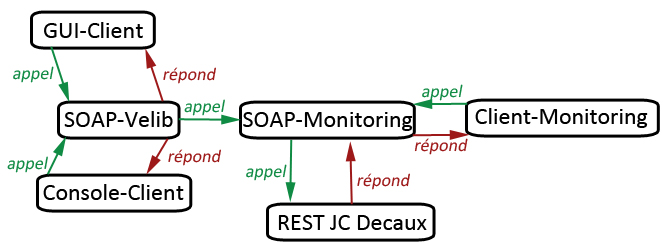
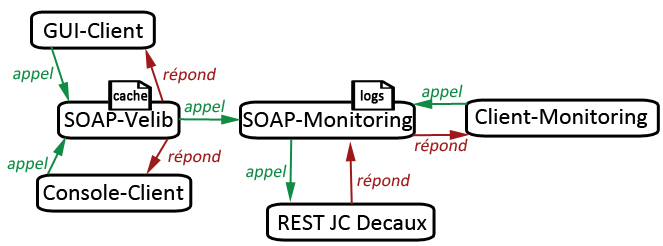
maj README

Changed region(s): [[0.1508, 0.313, 0.2413, 0.4553], [0.5128, 0.313, 0.6033, 0.4553]]

diff --git a/README.md b/README.md
@@ -11,14 +11,14 @@
 
 ## Ordre de lancement
 Pour que tous les projets fonctionnent correctement il est nécessaire de les lancer dans un certain ordre :  
- 1. Client-Console_Monitoring
+ 1. Wcf_Monitoring
  2. Wcf_SOAP-Velib
- 3. _Le projet/fonctionnalité que vous souhaiter tester_   
+ 3. _Le projet/fonctionnalité que vous souhaitez tester_   
 
 Voir "Architecture du projet".
 
 ## Architecture du projet
-Le dépôt courant est composé de 5 projets (de manière à bien décomposer en cas de client/serveur) :  
+Le dépôt courant est composé de 5 projets (de manière à bien découper en cas de client/serveur) :  
  1. **Client_Console-Velib :** Projet client console qui communique via un protocol SOAP avec le service fournit par le projet `Wcf_SOAP-Velib`. Une fois le projet `Wcf_SOAP-Velib` lancé, puis ce projet lancé, tapez `help` pour voir les commandes disponibles. Vous pourrez intéragir via la console Windows.    
  → Ce projet utilise les méthodes synchrones (séquentielles classiques) fournies par le service SOAP.  
  _L'API publique est documentée._
@@ -27,19 +27,20 @@ Le dépôt courant est composé de 5 projets (de manière à bien décomposer en
  → Ce projet utilise les méthodes asynchrones fournit par le service SOAP.   
  _L'API publique est documentée._  
 
- 3. **Wcf_SOAP-Velib** : Projet WCF (bibliothèque) qui fournit un service SOAP communiquant avec l'API de JC Decaux qui suit l'architecture REST.  
+ 3. **Wcf_SOAP-Velib** : Projet WCF (bibliothèque) qui fournit un service SOAP communiquant avec l'API de JC Decaux qui suit l'architecture REST. Depuis l'ajout du module de monitoring il faut lancer `Wcf_Monitoring` avant ce projet.  
  _L'API publique est documentée._  
 
- 4. **Monitoring** : Le dossier `monitoring` est composé de deux projets. Le premier `Wcf_Monitoring` va créer un service WCF (comme pour le service SOAP-Velib) qui va gérer les logs. Il va être appelé par `Wcf_SOAP-Velib` à chaque fois que celui-ci est appelé, la persistence est gérée de la même manière que pour le cache (voir section suivante). Ce service est également référencé par le projet `Client-Console_Monitoring` qui a un comportement analogue à `Client_Console-Velib`, et permet via un terminal de consulter divers données comme le nombre de requêtes pour une période donnée ou le délais moyen d'une méthode communiquant avec l'API REST JC Decaux. On l'architecture suivante :    
+ 4. **Monitoring** : Le dossier `monitoring` est composé de deux projets. Le premier `Wcf_Monitoring` va créer un service WCF (comme pour le service SOAP-Velib) qui va gérer les logs. Il va être appelé par `Wcf_SOAP-Velib` à chaque fois que celui-ci est appelé, la persistence est gérée de la même manière que pour le cache (voir section suivante). Ce service est également référencé par le projet `Client-Console_Monitoring` qui a un comportement analogue à `Client_Console-Velib`, et permet via un terminal de consulter divers données comme le nombre de requêtes pour une période donnée ou le délais moyen d'une méthode communiquant avec l'API REST JC Decaux. On a l'architecture suivante :    
  ![appels](doc/appels.jpg)
+  _L'API publique est documentée._
 
 ### **Cache**
 Le système de "cache" est ajouté dans le projet `Wcf_SOAP-Velib`.   
 La classe `Cache` est responsable de son fonctionnement. Un objet de cette classe va stocker la liste des villes de l'API et pour chacune la liste de ses stations ; chaque information (ville ou liste de stations) est associée à une date qui correspond au moment où l'information a été obtenue.    
-L'instance de la classe `Cache` dispose d'une durée (de base de 5min qui est configurable), si une nouvelle requête est effectuée dans un délai inférieur à la durée alors on va aller se servir des données stockées, sinon on va supprimer ces données et faire une requête (qui iront à leur tour dans le cache). Pour gérer la persistence on écrit/lit le cache (dans le dossier `Debug`) dans un fichier binaire.   
+L'instance de la classe `Cache` dispose d'une durée (de base de 5min, cette durée est configurable), si une nouvelle requête est effectuée dans un délai inférieur à la durée alors on va aller se servir des données stockées, sinon on va supprimer ces données et faire une requête (qui iront à leur tour dans le cache). Pour gérer la persistence on écrit/lit le cache (dans le dossier `Debug`) dans un fichier binaire.   
 **(?)** Il a été choisi de ne pas mettre en cache le nombre de vélos par stations car cette information nécessite d'être en "temps réel".  
    
-On peut apprécier le fonctionnement du cache avec le projet `Client_Console-Velib` qui affiche le temps d'exécution d'une commande, dans l'exemple suivant on voit deux appels consécutifs à la liste des villes :   
+On peut apprécier le fonctionnement du cache avec le projet `Client_Console-Velib` qui affiche le temps d'exécution d'une commande, dans l'exemple suivant on voit deux appels consécutifs à la liste des villes (ou via le projet de monitoring) :   
 - _CITIES   
 Temps d'exécution : 00:00:00.8927616   
 -----------------------------------------------------------_   
